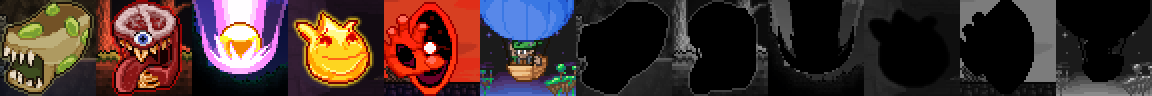
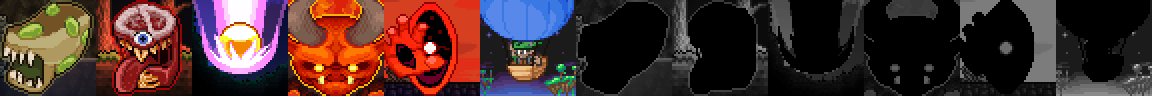
update photography to include cinder bat

diff --git a/Content/CrossMod/SplitSupport/Photography/PhotographyLoader.cs b/Content/CrossMod/SplitSupport/Photography/PhotographyLoader.cs
@@ -29,7 +29,7 @@ internal sealed partial class PhotographyLoader : ModSystem {
     private void LoadAlbumsAfterEnvelopes() {
         IContentIdProvider spaceEnvelope = Split.GetContentProvider<ModItem>("BlueSkyEnvelope", ItemID.FloatingIslandFishingCrate);
         IContentIdProvider hellEnvelope = Split.GetContentProvider<ModItem>("FieryEnvelope", ItemID.ObsidianLockbox);
-        IContentIdProvider dungeonEnvelope = Split.GetContentProvider<ModItem>("DungeonEnvelope", ItemID.DungeonFishingCrateHard);
+        //IContentIdProvider dungeonEnvelope = Split.GetContentProvider<ModItem>("DungeonEnvelope", ItemID.DungeonFishingCrateHard);
         IContentIdProvider bloodMoonEnvelope = Split.GetContentProvider<ModItem>("HorrificEnvelope", ItemID.DungeonFishingCrateHard);
 #if !DEBUG
         AddPhotographyPage(
@@ -39,8 +39,11 @@ internal sealed partial class PhotographyLoader : ModSystem {
                 new(0, GetNPC<Enemies.PollutedOcean.BreadOfCthulhu.BreadOfCthulhu>(), Envelope(EnvelopePollutedOcean)),
                 new(1, GetNPC<Old.Content.Enemies.BloodMoon.BloodMimic>(), bloodMoonEnvelope),
                 new(2, GetNPC<Old.Content.Bosses.UltraStarite.UltraStarite>(), Envelope(EnvelopeGlimmer)),
-                /*new(3, new ProvideContentId(0) GetNPC<Heckto>(), dungeonEnvelope),*/
-                /*new(4, new ProvideContentId(1) GetNPC<Oblivision>(), hellEnvelope),*/
+                new(3, GetNPC<Old.Content.Enemies.DemonSiege.CinderBat.CinderBat>(), hellEnvelope),
+
+                // Oblivision
+                new(4, GetNPC<Old.Content.Enemies.DemonSiege.CinderBat.CinderBat>(), hellEnvelope),
+
                 new(5, GetNPC<TownNPCs.SkyMerchant.SkyMerchant>(), spaceEnvelope),
             ]);
 #endif
